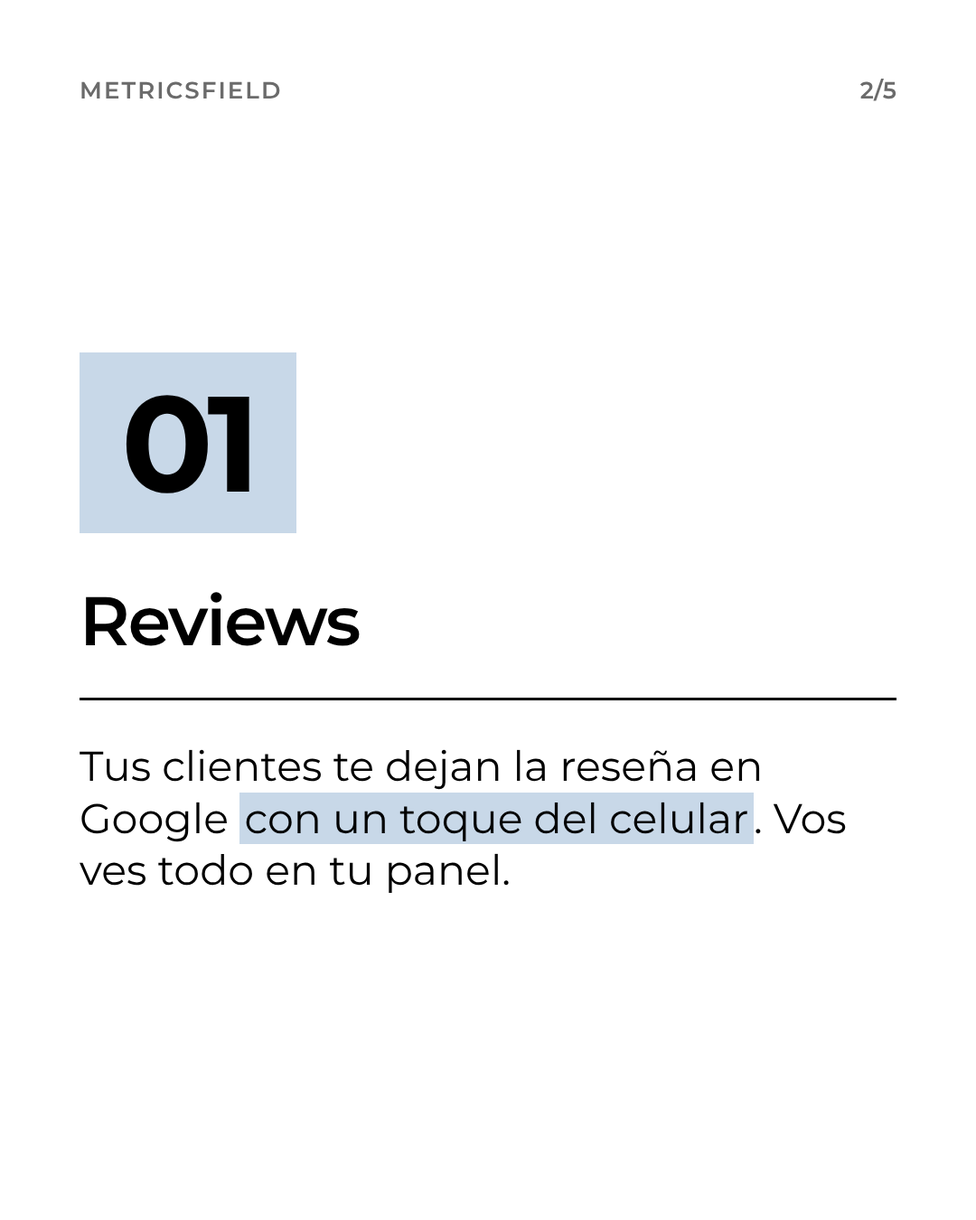
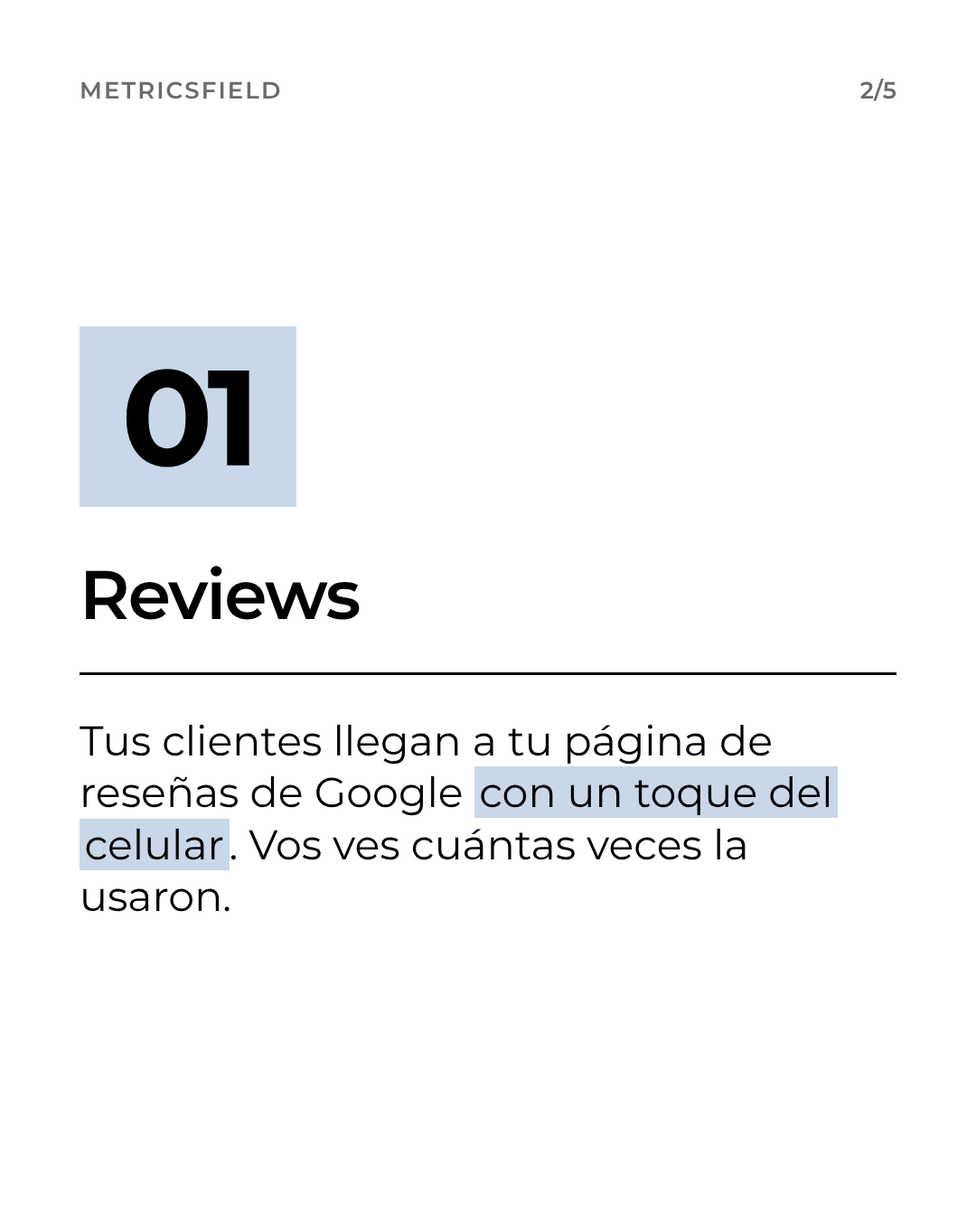
Contenido Reviews: auditoría y correcciones contra las reglas
- contenido/reviews/AUDITORIA.md: qué se puede afirmar en público, verificado contra main.
- Reel: sin precio, sin 'gana el de enfrente', sin recrear la pantalla de Google
  (queda marcado [VIDEO REAL]), sin sombras y con el azul niebla del manual.
- Voz: dos líneas nuevas (competencia y piezas); el workflow regenera los audios.
- P01: un toque lleva a la página de reseñas, no 'te dejan la reseña'. P04: CTA INFO.

Claude-Session: https://claude.ai/code/session_01EgVxW8fVxi3WibPckcH8mP

Changed region(s): [[0.0611, 0.5911, 0.8861, 0.7467], [0.0611, 0.2489, 0.3056, 0.4356], [0.0917, 0.4667, 0.3667, 0.5289]]

diff --git a/contenido/videos/reviews/compositions/google.html b/contenido/videos/reviews/compositions/google.html
@@ -2,34 +2,27 @@
   <style>
 #root{position:absolute;inset:0;background:#F4F5F7;font-family:Montserrat,sans-serif;color:#111111;overflow:hidden}
 .tit{position:absolute;left:84px;right:84px;top:230px;font-weight:800;font-size:92px;line-height:1.02;letter-spacing:-0.03em;margin:0}
-.acc{color:#2563EB}
+.acc{background:#C8D8E8;padding:0 .08em;-webkit-box-decoration-break:clone;box-decoration-break:clone}
 .sub{position:absolute;left:84px;right:84px;font-weight:600;font-size:38px;line-height:1.25;color:#5e5e5e;margin:0}
-.foto{position:absolute;left:84px;right:84px;border-radius:36px;overflow:hidden;box-shadow:0 18px 40px rgba(0,0,0,.14);background:#ddd}
+.foto{position:absolute;left:84px;right:84px;border-radius:36px;overflow:hidden;box-shadow:none;background:#ddd}
 .foto img{display:block;width:100%;height:100%;object-fit:cover}
 .etq{position:absolute;font-weight:700;font-size:28px;color:#5e5e5e;background:#fff;border:2px solid #dcdfe4;border-radius:999px;padding:8px 22px}
 
-#s-tel{position:absolute;left:240px;top:540px;width:600px;height:780px;border-radius:64px;background:#111;padding:18px;box-shadow:0 24px 50px rgba(0,0,0,.22)}
+#s-tel{position:absolute;left:240px;top:540px;width:600px;height:780px;border-radius:64px;background:#111;padding:18px;box-shadow:none}
 #s-pant{width:100%;height:100%;border-radius:48px;background:#fff;padding:70px 40px 40px;position:relative}
-.g{font-weight:800;font-size:46px;letter-spacing:-0.02em;margin:0}
-.g i{font-style:normal}
-.loc{font-weight:700;font-size:34px;margin:28px 0 0}
-.preg{font-size:28px;color:#5e5e5e;margin:10px 0 30px}
-.estrellas{display:flex;gap:10px}
-.est{font-size:68px;color:#dadce0;line-height:1}
-.est.llena{color:#f5b301}
+.loc{font-weight:700;font-size:40px;margin:20px 0 0}
+.preg{font-size:44px;font-weight:700;line-height:1.15;margin:30px 0 30px}
 #s-txt{margin-top:34px;height:150px;border:2px solid #dadce0;border-radius:18px;padding:18px;font-size:28px;color:#333}
-#s-btn{position:absolute;right:40px;bottom:44px;background:#1a73e8;color:#fff;font-weight:700;font-size:30px;border-radius:999px;padding:16px 36px}
+.nota{position:absolute;left:40px;right:40px;bottom:40px;font-size:22px;color:#8a8a8a;border:2px dashed #bbb;padding:14px;margin:0}
 
   </style>
   <div id="root" data-composition-id="google" data-width="1080" data-height="1920">
     <h1 id="s-tit" class="tit">Se abre Google.<br><span id="s-acc" class="acc">Sin apps.</span></h1>
     <div id="s-tel"><div id="s-pant">
-      <p class="g"><i style="color:#4285F4">G</i><i style="color:#EA4335">o</i><i style="color:#FBBC05">o</i><i style="color:#4285F4">g</i><i style="color:#34A853">l</i><i style="color:#EA4335">e</i></p>
       <p class="loc">Café Ejemplo</p>
-      <p class="preg">¿Cómo fue tu experiencia?</p>
-      <div class="estrellas"><span id="s-e1" class="est">★</span><span id="s-e2" class="est">★</span><span id="s-e3" class="est">★</span><span id="s-e4" class="est">★</span><span id="s-e5" class="est">★</span></div>
-      <div id="s-txt"><span id="s-escrito">Excelente atención y el café, buenísimo.</span></div>
-      <span id="s-btn">Publicar</span>
+      <p class="preg">Tu página de reseñas<br>en Google</p>
+      <div id="s-txt"><span id="s-escrito">El cliente escribe su opinión, la que quiera.</span></div>
+      <p id="s-nota" class="nota">[VIDEO REAL] grabar el toque y la página real de Google con un celular</p>
     </div></div>
   </div>
   <script>
@@ -37,12 +30,8 @@
     tl.fromTo("#s-tit", { opacity: 0, y: 30 }, { opacity: 1, y: 0, duration: 0.4, ease: "power3.out" }, 0);
     tl.fromTo("#s-acc", { opacity: 0 }, { opacity: 1, duration: 0.3, ease: "power2.out" }, 2.65);
     tl.fromTo("#s-tel", { opacity: 0, y: 80 }, { opacity: 1, y: 0, duration: 0.5, ease: "power3.out" }, 0.2);
-    for (let i = 1; i <= 5; i++) {
-      tl.fromTo("#s-e" + i, { color: "#dadce0", scale: 1 }, { color: "#f5b301", scale: 1.15, duration: 0.12, ease: "power2.out" }, 0.8 + i * 0.16);
-      tl.to("#s-e" + i, { scale: 1, duration: 0.12, ease: "power2.in" }, 0.92 + i * 0.16);
-    }
-    tl.fromTo("#s-escrito", { clipPath: "inset(0 100% 0 0)" }, { clipPath: "inset(0 0% 0 0)", duration: 0.8, ease: "none" }, 1.7);
-    tl.fromTo("#s-btn", { scale: 1 }, { scale: 0.92, duration: 0.1, yoyo: true, repeat: 1, ease: "power1.inOut" }, 3.05);
+    tl.fromTo("#s-escrito", { clipPath: "inset(0 100% 0 0)" }, { clipPath: "inset(0 0% 0 0)", duration: 0.8, ease: "none" }, 1.2);
+    tl.fromTo("#s-nota", { opacity: 0 }, { opacity: 1, duration: 0.3 }, 1.0);
     window.__timelines["google"] = tl;
   </script>
 </template>

diff --git a/contenido/videos/reviews/compositions/competencia.html b/contenido/videos/reviews/compositions/competencia.html
@@ -2,28 +2,28 @@
   <style>
 #root{position:absolute;inset:0;background:#F4F5F7;font-family:Montserrat,sans-serif;color:#111111;overflow:hidden}
 .tit{position:absolute;left:84px;right:84px;top:230px;font-weight:800;font-size:92px;line-height:1.02;letter-spacing:-0.03em;margin:0}
-.acc{color:#2563EB}
+.acc{background:#C8D8E8;padding:0 .08em;-webkit-box-decoration-break:clone;box-decoration-break:clone}
 .sub{position:absolute;left:84px;right:84px;font-weight:600;font-size:38px;line-height:1.25;color:#5e5e5e;margin:0}
-.foto{position:absolute;left:84px;right:84px;border-radius:36px;overflow:hidden;box-shadow:0 18px 40px rgba(0,0,0,.14);background:#ddd}
+.foto{position:absolute;left:84px;right:84px;border-radius:36px;overflow:hidden;box-shadow:none;background:#ddd}
 .foto img{display:block;width:100%;height:100%;object-fit:cover}
 .etq{position:absolute;font-weight:700;font-size:28px;color:#5e5e5e;background:#fff;border:2px solid #dcdfe4;border-radius:999px;padding:8px 22px}
 
-.ficha{position:absolute;left:84px;right:84px;background:#fff;border-radius:32px;padding:40px 48px;box-shadow:0 18px 40px rgba(0,0,0,.10)}
+.ficha{position:absolute;left:84px;right:84px;background:#fff;border-radius:32px;padding:40px 48px;box-shadow:none}
 .ficha .n{font-weight:700;font-size:40px;margin:0}
 .ficha .r{display:flex;align-items:baseline;gap:20px;margin-top:14px}
 .ficha .r b{font-weight:800;font-size:110px;letter-spacing:-0.04em;line-height:1}
-.ficha .r span{font-size:54px;color:#f5b301;letter-spacing:4px}
+.ficha .r span{font-size:54px;color:#111111;letter-spacing:4px}
 .ficha .m{font-size:34px;color:#5e5e5e;margin:12px 0 0}
 #c-tuyo{top:610px}
-#c-otro{top:960px;border:4px solid #2563EB}
+#c-otro{top:960px;border:4px solid #111111}
 #c-etq{left:84px;top:1290px}
 
   </style>
   <div id="root" data-composition-id="competencia" data-width="1080" data-height="1920">
-    <h1 id="c-tit" class="tit">En Google, gana <span class="acc">el de enfrente.</span></h1>
+    <h1 id="c-tit" class="tit">Cuando te buscan, <span class="acc">esto es lo que ven.</span></h1>
     <div id="c-tuyo" class="ficha"><p class="n">Tu local</p><div class="r"><b>3,9</b><span>★★★★☆</span></div><p class="m">12 reseñas · la última, hace 8 meses</p></div>
-    <div id="c-otro" class="ficha"><p class="n">El local de enfrente</p><div class="r"><b>4,6</b><span>★★★★★</span></div><p class="m"><span id="c-num">310</span> reseñas · la última, hace 2 días</p></div>
-    <span id="c-etq" class="etq">Ejemplo</span>
+    <div id="c-otro" class="ficha"><p class="n">Otro local de tu zona</p><div class="r"><b>4,6</b><span>★★★★★</span></div><p class="m"><span id="c-num">310</span> reseñas · la última, hace 2 días</p></div>
+    <span id="c-etq" class="etq">Datos de ejemplo</span>
   </div>
   <script>
     const tl = gsap.timeline({ paused: true });

diff --git a/contenido/videos/reviews/compositions/piezas.html b/contenido/videos/reviews/compositions/piezas.html
@@ -2,13 +2,13 @@
   <style>
 #root{position:absolute;inset:0;background:#F4F5F7;font-family:Montserrat,sans-serif;color:#111111;overflow:hidden}
 .tit{position:absolute;left:84px;right:84px;top:230px;font-weight:800;font-size:92px;line-height:1.02;letter-spacing:-0.03em;margin:0}
-.acc{color:#2563EB}
+.acc{background:#C8D8E8;padding:0 .08em;-webkit-box-decoration-break:clone;box-decoration-break:clone}
 .sub{position:absolute;left:84px;right:84px;font-weight:600;font-size:38px;line-height:1.25;color:#5e5e5e;margin:0}
-.foto{position:absolute;left:84px;right:84px;border-radius:36px;overflow:hidden;box-shadow:0 18px 40px rgba(0,0,0,.14);background:#ddd}
+.foto{position:absolute;left:84px;right:84px;border-radius:36px;overflow:hidden;box-shadow:none;background:#ddd}
 .foto img{display:block;width:100%;height:100%;object-fit:cover}
 .etq{position:absolute;font-weight:700;font-size:28px;color:#5e5e5e;background:#fff;border:2px solid #dcdfe4;border-radius:999px;padding:8px 22px}
 
-.pz{position:absolute;border-radius:30px;overflow:hidden;box-shadow:0 18px 40px rgba(0,0,0,.14);background:#ddd}
+.pz{position:absolute;border-radius:30px;overflow:hidden;box-shadow:none;background:#ddd}
 .pz img{display:block;width:100%;height:100%;object-fit:cover}
 #z-a{left:84px;top:640px;width:500px;height:660px}
 #z-b{left:604px;top:640px;width:392px;height:320px}
@@ -18,10 +18,10 @@
 
   </style>
   <div id="root" data-composition-id="piezas" data-width="1080" data-height="1920">
-    <h1 id="z-tit" class="tit">Standee, tarjeta <span class="acc">o sticker.</span></h1>
-    <p id="z-sub" class="sub">Pago único · desde $10.000 + IVA</p>
+    <h1 id="z-tit" class="tit">Sticker, tarjeta <span class="acc">o exhibidor.</span></h1>
+    <p id="z-sub" class="sub">Todos llevan al mismo lugar: Google.</p>
     <div id="z-a" class="pz"><img src="assets/tarjeta.jpg" alt="Tarjeta PVC en la mano de un mozo" style="object-position:55% 50%"><span class="nom">Tarjeta</span></div>
-    <div id="z-b" class="pz"><img src="assets/standee.jpg" alt="Standee de mostrador"><span class="nom">Standee</span></div>
+    <div id="z-b" class="pz"><img src="assets/standee.jpg" alt="Exhibidor de mostrador"><span class="nom">Exhibidor</span></div>
     <div id="z-c" class="pz"><img src="assets/sticker.jpg" alt="Sticker NFC en la mesa"><span class="nom">Sticker</span></div>
   </div>
   <script>

diff --git a/contenido/videos/reviews/compositions/panel.html b/contenido/videos/reviews/compositions/panel.html
@@ -2,13 +2,13 @@
   <style>
 #root{position:absolute;inset:0;background:#F4F5F7;font-family:Montserrat,sans-serif;color:#111111;overflow:hidden}
 .tit{position:absolute;left:84px;right:84px;top:230px;font-weight:800;font-size:92px;line-height:1.02;letter-spacing:-0.03em;margin:0}
-.acc{color:#2563EB}
+.acc{background:#C8D8E8;padding:0 .08em;-webkit-box-decoration-break:clone;box-decoration-break:clone}
 .sub{position:absolute;left:84px;right:84px;font-weight:600;font-size:38px;line-height:1.25;color:#5e5e5e;margin:0}
-.foto{position:absolute;left:84px;right:84px;border-radius:36px;overflow:hidden;box-shadow:0 18px 40px rgba(0,0,0,.14);background:#ddd}
+.foto{position:absolute;left:84px;right:84px;border-radius:36px;overflow:hidden;box-shadow:none;background:#ddd}
 .foto img{display:block;width:100%;height:100%;object-fit:cover}
 .etq{position:absolute;font-weight:700;font-size:28px;color:#5e5e5e;background:#fff;border:2px solid #dcdfe4;border-radius:999px;padding:8px 22px}
 
-#p-panel{position:absolute;left:84px;right:84px;top:560px;background:#fff;border-radius:32px;padding:36px;box-shadow:0 18px 40px rgba(0,0,0,.10)}
+#p-panel{position:absolute;left:84px;right:84px;top:560px;background:#fff;border-radius:32px;padding:36px;box-shadow:none}
 .barra{font-size:28px;color:#5e5e5e;font-weight:600;margin:0 0 24px}
 .kpis{display:grid;grid-template-columns:repeat(3,1fr);gap:16px}
 .kpi{background:#F4F5F7;border-radius:20px;padding:20px}
@@ -17,7 +17,7 @@
 #p-res{margin-top:22px;border:2px solid #e4e6ea;border-radius:22px;padding:24px}
 .cab{display:flex;align-items:center;gap:14px;font-size:30px}
 .cab b{font-weight:700}
-.cab span{color:#f5b301;letter-spacing:3px}
+.cab span{color:#111111;letter-spacing:3px}
 .cab small{margin-left:auto;font-size:28px;color:#5e5e5e}
 .txt{font-size:28px;margin:12px 0 0;line-height:1.35}
 #p-sug{margin-top:18px;background:#eef4ff;border-radius:18px;padding:20px}

diff --git a/contenido/videos/reviews/compositions/cierre.html b/contenido/videos/reviews/compositions/cierre.html
@@ -2,14 +2,14 @@
   <style>
 #root{position:absolute;inset:0;background:#F4F5F7;font-family:Montserrat,sans-serif;color:#111111;overflow:hidden}
 .tit{position:absolute;left:84px;right:84px;top:230px;font-weight:800;font-size:92px;line-height:1.02;letter-spacing:-0.03em;margin:0}
-.acc{color:#2563EB}
+.acc{background:#C8D8E8;padding:0 .08em;-webkit-box-decoration-break:clone;box-decoration-break:clone}
 .sub{position:absolute;left:84px;right:84px;font-weight:600;font-size:38px;line-height:1.25;color:#5e5e5e;margin:0}
-.foto{position:absolute;left:84px;right:84px;border-radius:36px;overflow:hidden;box-shadow:0 18px 40px rgba(0,0,0,.14);background:#ddd}
+.foto{position:absolute;left:84px;right:84px;border-radius:36px;overflow:hidden;box-shadow:none;background:#ddd}
 .foto img{display:block;width:100%;height:100%;object-fit:cover}
 .etq{position:absolute;font-weight:700;font-size:28px;color:#5e5e5e;background:#fff;border:2px solid #dcdfe4;border-radius:999px;padding:8px 22px}
 
 #f-logo{position:absolute;left:84px;top:260px;width:620px;height:auto}
-#f-prod{position:absolute;left:84px;top:410px;font-weight:700;font-size:44px;color:#2563EB;margin:0}
+#f-prod{position:absolute;left:84px;top:410px;font-weight:700;font-size:44px;color:#111111;margin:0}
 #f-loop{position:absolute;left:84px;right:84px;top:560px;font-weight:800;font-size:84px;line-height:1.04;letter-spacing:-0.03em;margin:0}
 #f-cta{position:absolute;left:84px;right:84px;top:900px;background:#111;color:#fff;border-radius:36px;padding:44px 48px}
 #f-cta b{display:block;font-weight:800;font-size:96px;letter-spacing:-0.03em;line-height:1}

diff --git a/contenido/videos/reviews/compositions/gancho.html b/contenido/videos/reviews/compositions/gancho.html
@@ -2,9 +2,9 @@
   <style>
 #root{position:absolute;inset:0;background:#F4F5F7;font-family:Montserrat,sans-serif;color:#111111;overflow:hidden}
 .tit{position:absolute;left:84px;right:84px;top:230px;font-weight:800;font-size:92px;line-height:1.02;letter-spacing:-0.03em;margin:0}
-.acc{color:#2563EB}
+.acc{background:#C8D8E8;padding:0 .08em;-webkit-box-decoration-break:clone;box-decoration-break:clone}
 .sub{position:absolute;left:84px;right:84px;font-weight:600;font-size:38px;line-height:1.25;color:#5e5e5e;margin:0}
-.foto{position:absolute;left:84px;right:84px;border-radius:36px;overflow:hidden;box-shadow:0 18px 40px rgba(0,0,0,.14);background:#ddd}
+.foto{position:absolute;left:84px;right:84px;border-radius:36px;overflow:hidden;box-shadow:none;background:#ddd}
 .foto img{display:block;width:100%;height:100%;object-fit:cover}
 .etq{position:absolute;font-weight:700;font-size:28px;color:#5e5e5e;background:#fff;border:2px solid #dcdfe4;border-radius:999px;padding:8px 22px}
 

diff --git a/contenido/videos/reviews/compositions/toque.html b/contenido/videos/reviews/compositions/toque.html
@@ -2,9 +2,9 @@
   <style>
 #root{position:absolute;inset:0;background:#F4F5F7;font-family:Montserrat,sans-serif;color:#111111;overflow:hidden}
 .tit{position:absolute;left:84px;right:84px;top:230px;font-weight:800;font-size:92px;line-height:1.02;letter-spacing:-0.03em;margin:0}
-.acc{color:#2563EB}
+.acc{background:#C8D8E8;padding:0 .08em;-webkit-box-decoration-break:clone;box-decoration-break:clone}
 .sub{position:absolute;left:84px;right:84px;font-weight:600;font-size:38px;line-height:1.25;color:#5e5e5e;margin:0}
-.foto{position:absolute;left:84px;right:84px;border-radius:36px;overflow:hidden;box-shadow:0 18px 40px rgba(0,0,0,.14);background:#ddd}
+.foto{position:absolute;left:84px;right:84px;border-radius:36px;overflow:hidden;box-shadow:none;background:#ddd}
 .foto img{display:block;width:100%;height:100%;object-fit:cover}
 .etq{position:absolute;font-weight:700;font-size:28px;color:#5e5e5e;background:#fff;border:2px solid #dcdfe4;border-radius:999px;padding:8px 22px}
 

diff --git a/contenido/reviews/AUDITORIA.md b/contenido/reviews/AUDITORIA.md
@@ -1,0 +1,82 @@
+# Auditoría de MetricsField Reviews para contenido
+
+**Verificado contra:** rama `main`, commit `74ebab2` (PR #255), que es lo que
+corre en producción en app.metricsfield.com. Todo lo de esta tabla está en
+`main`; nada sale de una rama sin fusionar.
+
+**Interruptores:** en producción **no los pude leer** (Vercel no me deja ver
+las variables). El equipo confirmó el 04/11/2026 que **están todos
+encendidos**: `GOOGLE_BUSINESS_PROFILE_HABILITADO`, `GOOGLE_REVIEWS_API_ENABLED`
+y `RESPUESTAS_IA_HABILITADAS`. Lo tomo como dato del equipo, marcado
+"según el equipo". Si alguno se apaga, las filas que dependen de él dejan de
+poder afirmarse.
+
+## Qué hace el producto
+
+| Qué hace | Dónde lo verifiqué | Estado | ¿Se puede afirmar en público? |
+|---|---|---|---|
+| El cartel (sticker, tarjeta o exhibidor) lleva a una URL corta `/t/<slug>`; al tocarlo o escanearlo, el celular abre la página de reseña de Google del comercio | `app/t/[slug]/page.tsx` | main | **Sí** |
+| Todos van al mismo link público de Google, sin pantallas intermedias ni preguntas previas (no hay "star-gate") | `app/t/[slug]/page.tsx` → `RedireccionSuave` | main | **Sí**. Es una garantía del producto |
+| Funciona por NFC (apoyar el celular) y por QR (escanear con la cámara) | `lib/qr.ts`, `PanelEscaneos` (NFC vs QR) | main | **Sí** |
+| Cada toque o escaneo se cuenta; se guardan solo la fecha y hora, la pieza y el user-agent del navegador. **No** se guarda nombre, teléfono, mail ni ubicación de quien toca | `registrarTap` en `lib/db/links.ts`, tabla `taps` en `db/schema.sql` | main | **Sí**: "No guardamos datos personales de tus clientes" |
+| No se cuentan los bots ni las vistas previas de links, y hay un tope por IP para que nadie infle los números | `UA_BOT` y `permitir(...)` en `app/t/[slug]/page.tsx` | main | **Con matiz**: "los números se filtran para que sean reales", sin prometer precisión total |
+| Un toque **no** es una reseña: el sistema cuenta interacciones con el cartel; la reseña la decide el cliente | Ídem: se cuenta antes de salir a Google y no hay forma de saber qué hizo después | main | **Sí**, y conviene decirlo |
+| El destino del cartel se cambia desde el panel sin reimprimir la pieza | comentario y lógica de `urlDestino`, `/t/[slug]/editar` | main | **Sí** |
+| Piezas autogestionadas (Mercado Libre): el primer toque abre un formulario para configurarla; queda protegida con un PIN de 4 dígitos (rechaza PIN fáciles como 1234); "Mis piezas" para cambiarla o dejarla en blanco | `ActivarCartel`, `lib/pin.ts`, `/t/mis-piezas` | main | **Sí** |
+| Portal del comercio `/portal/<código>`: el código privado es la credencial, solo lectura, cada comercio ve solo lo suyo | `lib/portal-auth.ts`, `app/portal/[codigo]` | main | **Sí**: "cada comercio ve solo sus datos" |
+| Portal · **Resumen**: reseñas de hoy y del mes, toques del mes, proyección del mes, reseñas negativas, horas de más movimiento, pieza más usada, temas que se repiten en las reseñas, conclusiones | `PanelResumen` | main | **Sí** |
+| Portal · **Reseñas**: lista de reseñas con respuesta sugerida para aprobar o editar, y menciones del personal | `PanelResenas` | main + `GOOGLE_REVIEWS_API_ENABLED` (según el equipo: encendido) | **Sí**, según el equipo |
+| Portal · **Dispositivos y Escaneos**: toques por pieza, por día, NFC vs QR | `PanelDispositivos`, `PanelEscaneos` | main | **Sí** |
+| Portal · **Calificación**: calificación y total de reseñas, evolución mes a mes, cuántas de 5★ faltan para la meta | `PanelRating`, `lib/conclusiones.ts` | main; el dato sale de Places API | **Sí**. "Te faltan X de 5★ para el 4,7" es una cuenta, no una promesa |
+| Portal · **Competidores**: la calificación y las reseñas de los competidores que el comercio elige, y cómo cambian cada semana | `PanelCompetidores`, `lib/seguimiento-competencia.ts` | main + `GOOGLE_PLACES_API_KEY` | **Con matiz**: es una comparación entre los locales que vos elegís, **no** una "posición en Maps" |
+| Portal · **El mes**: resumen mensual, recomendación y checklist | `PanelMes` | main | **Sí** |
+| Visitas al perfil, llamadas y "cómo llegar" | `lib/gbp.ts`, `businessProfileHabilitado()` | main + `GOOGLE_BUSINESS_PROFILE_HABILITADO` (según el equipo: encendido) + el comercio tiene que **conectar su perfil** | **Con matiz**: "si conectás tu perfil de Google, ves visitas, llamadas y cómo llegar" |
+| Conexión con Google Business Profile desde el portal: pide iniciar sesión con Google y el permiso `business.manage` sobre **su propio** perfil. Se usa para leer las métricas y las reseñas y para publicar las respuestas. El token se guarda cifrado | `lib/google-oauth.ts` (`PORTAL_SCOPE`), `lib/crypto.ts` | main | **Sí**: "lo conectás con tu cuenta y lo podés desconectar cuando quieras". No es un login a MetricsField |
+| Respuestas automáticas (opcional, la prende el comercio): solo reseñas de 4-5★ (umbral elegido) **sin** quejas, sin links ni teléfonos, en castellano y no muy largas. Hasta 5 por día por comercio, nunca repite el texto de las últimas 40. Las demás quedan para responder a mano | `lib/auto-respuesta.ts` | main + `GOOGLE_REVIEWS_API_ENABLED` | **Sí**, describiendo las reglas |
+| Si Google rechaza una respuesta automática, se **pausan** las automáticas, la reseña vuelve a la lista y se le avisa al dueño por mail | `lib/db/google-sync.ts` (respuestas rechazadas), `lib/alertas.ts` | main | **Sí** |
+| Redacción con IA (Claude): opcional; menciona lo que dijo el cliente; recibe solo el texto, las estrellas, el nombre del comercio y el tono, **nunca** el nombre del autor; si falla, usa la plantilla | `lib/respuestas-ia.ts` | main + `RESPUESTAS_IA_HABILITADAS` (según el equipo: encendido) | **Con matiz**: "las respuestas se redactan según lo que dijo cada cliente". No decir que "la IA responde sola todo" |
+| Informe de cada lunes por mail al dueño: cómo lo encontraron en Google, sus reseñas y cuántas se respondieron, la comparación con la competencia y lo que hizo MetricsField | `lib/informe-semanal.ts`, cron lunes 12:00 UTC = 9:00 de Córdoba (`vercel.json`) | main | **Sí**: "todos los lunes te llega un resumen" |
+| Sincronización diaria con Google | cron `/api/cron/sync-google` a las 03:05 UTC (00:05 de Córdoba) | main | **Sí**: "los datos se actualizan todos los días" |
+| Panel del equipo `/admin`: solo login con Google y una lista de admins | `middleware.ts`, `lib/auth.ts` | main | No hace falta en las piezas (es interno) |
+
+## Límites conocidos
+
+- Un toque no es una reseña; no se sabe si el cliente terminó dejándola.
+- Las métricas de Google (visitas, llamadas) dependen de que el comercio conecte
+  su perfil y de que Google mantenga habilitada la API.
+- La calificación y el total de reseñas los informa Google; MetricsField no los
+  controla.
+- NFC: casi todos los celulares actuales lo tienen; en algunos iPhone viejos o
+  con NFC apagado se usa el QR.
+- El permiso de Google vence y hay que reconectarlo (el portal avisa antes).
+
+## (a) Beneficios que SÍ podés afirmar
+
+1. Tu cliente llega a tu página de reseñas de Google con un toque o un escaneo, sin apps ni pasos de más.
+2. Todos van al mismo lugar: Google. No filtramos ni elegimos a quién.
+3. Ves cuántas veces usaron cada pieza, qué día y a qué hora.
+4. Ves tus reseñas, tu calificación y cómo cambian mes a mes.
+5. Te sugerimos una respuesta para cada reseña; vos la aprobás o la editás.
+6. Si querés, las reseñas positivas simples se responden solas, con reglas y con tope.
+7. Comparás tu calificación con la de los competidores que elijas.
+8. Todos los lunes te llega un resumen por mail.
+9. No guardamos datos personales de quienes tocan la pieza.
+10. Cambiás a dónde lleva la pieza sin reimprimirla.
+
+## (b) Frases que NO hay que usar
+
+- "Más reseñas", "más clientes", "más ventas", "duplicá tus reseñas" (el producto no lo garantiza).
+- "Mejor posicionamiento", "aparecé primero en Google", "subí en Maps" (y nada de "posición en Maps").
+- "Solo los clientes contentos", "evitá las malas reseñas", "filtrá" (sería review gating).
+- "Reseña en segundos" o "cada toque es una reseña" (un toque no es una reseña).
+- Cualquier premio, descuento o sorteo a cambio de la reseña.
+- "Partner de Google", "oficial de Google", "aprobado por Google".
+- "La IA responde todo por vos".
+- Precios, prueba gratis y "Review Check" (a confirmar).
+
+## (c) Preguntas para el equipo
+
+1. ¿Hoy hay algún comercio real con el perfil de Google conectado y viendo visitas y llamadas? Si no, ¿mostramos esas métricas en las piezas igual (con datos de ejemplo) o las dejamos para cuando haya un caso real?
+2. ¿Las respuestas automáticas y la IA están prendidas en algún comercio real, o solo están habilitadas?
+3. ¿Qué CTA usamos por defecto en Reviews: DEMO o INFO?
+4. ¿El exhibidor sigue a la venta? (aparece como "Standee" en el seed y en las fotos).

diff --git a/contenido/carruseles/README.md b/contenido/carruseles/README.md
@@ -21,7 +21,7 @@ isotipo y `**palabra**` resalta.
 Dos locales con 4,8. Uno está creciendo y el otro, en problemas. 👀
 El puntaje es el resultado; lo que lo sostiene es el volumen, la actividad
 reciente y cómo respondés. Deslizá y fijate en cuál de los dos estás.
-👉 Comentá CHECK y te decimos qué mirar en tu perfil de Google.
+👉 Comentá INFO y te contamos qué mirar en tu perfil de Google.
 📍 Córdoba, Argentina
 #reseñasgoogle #comerciolocal #córdoba #marketinglocal #emprendedoresargentinos
 
